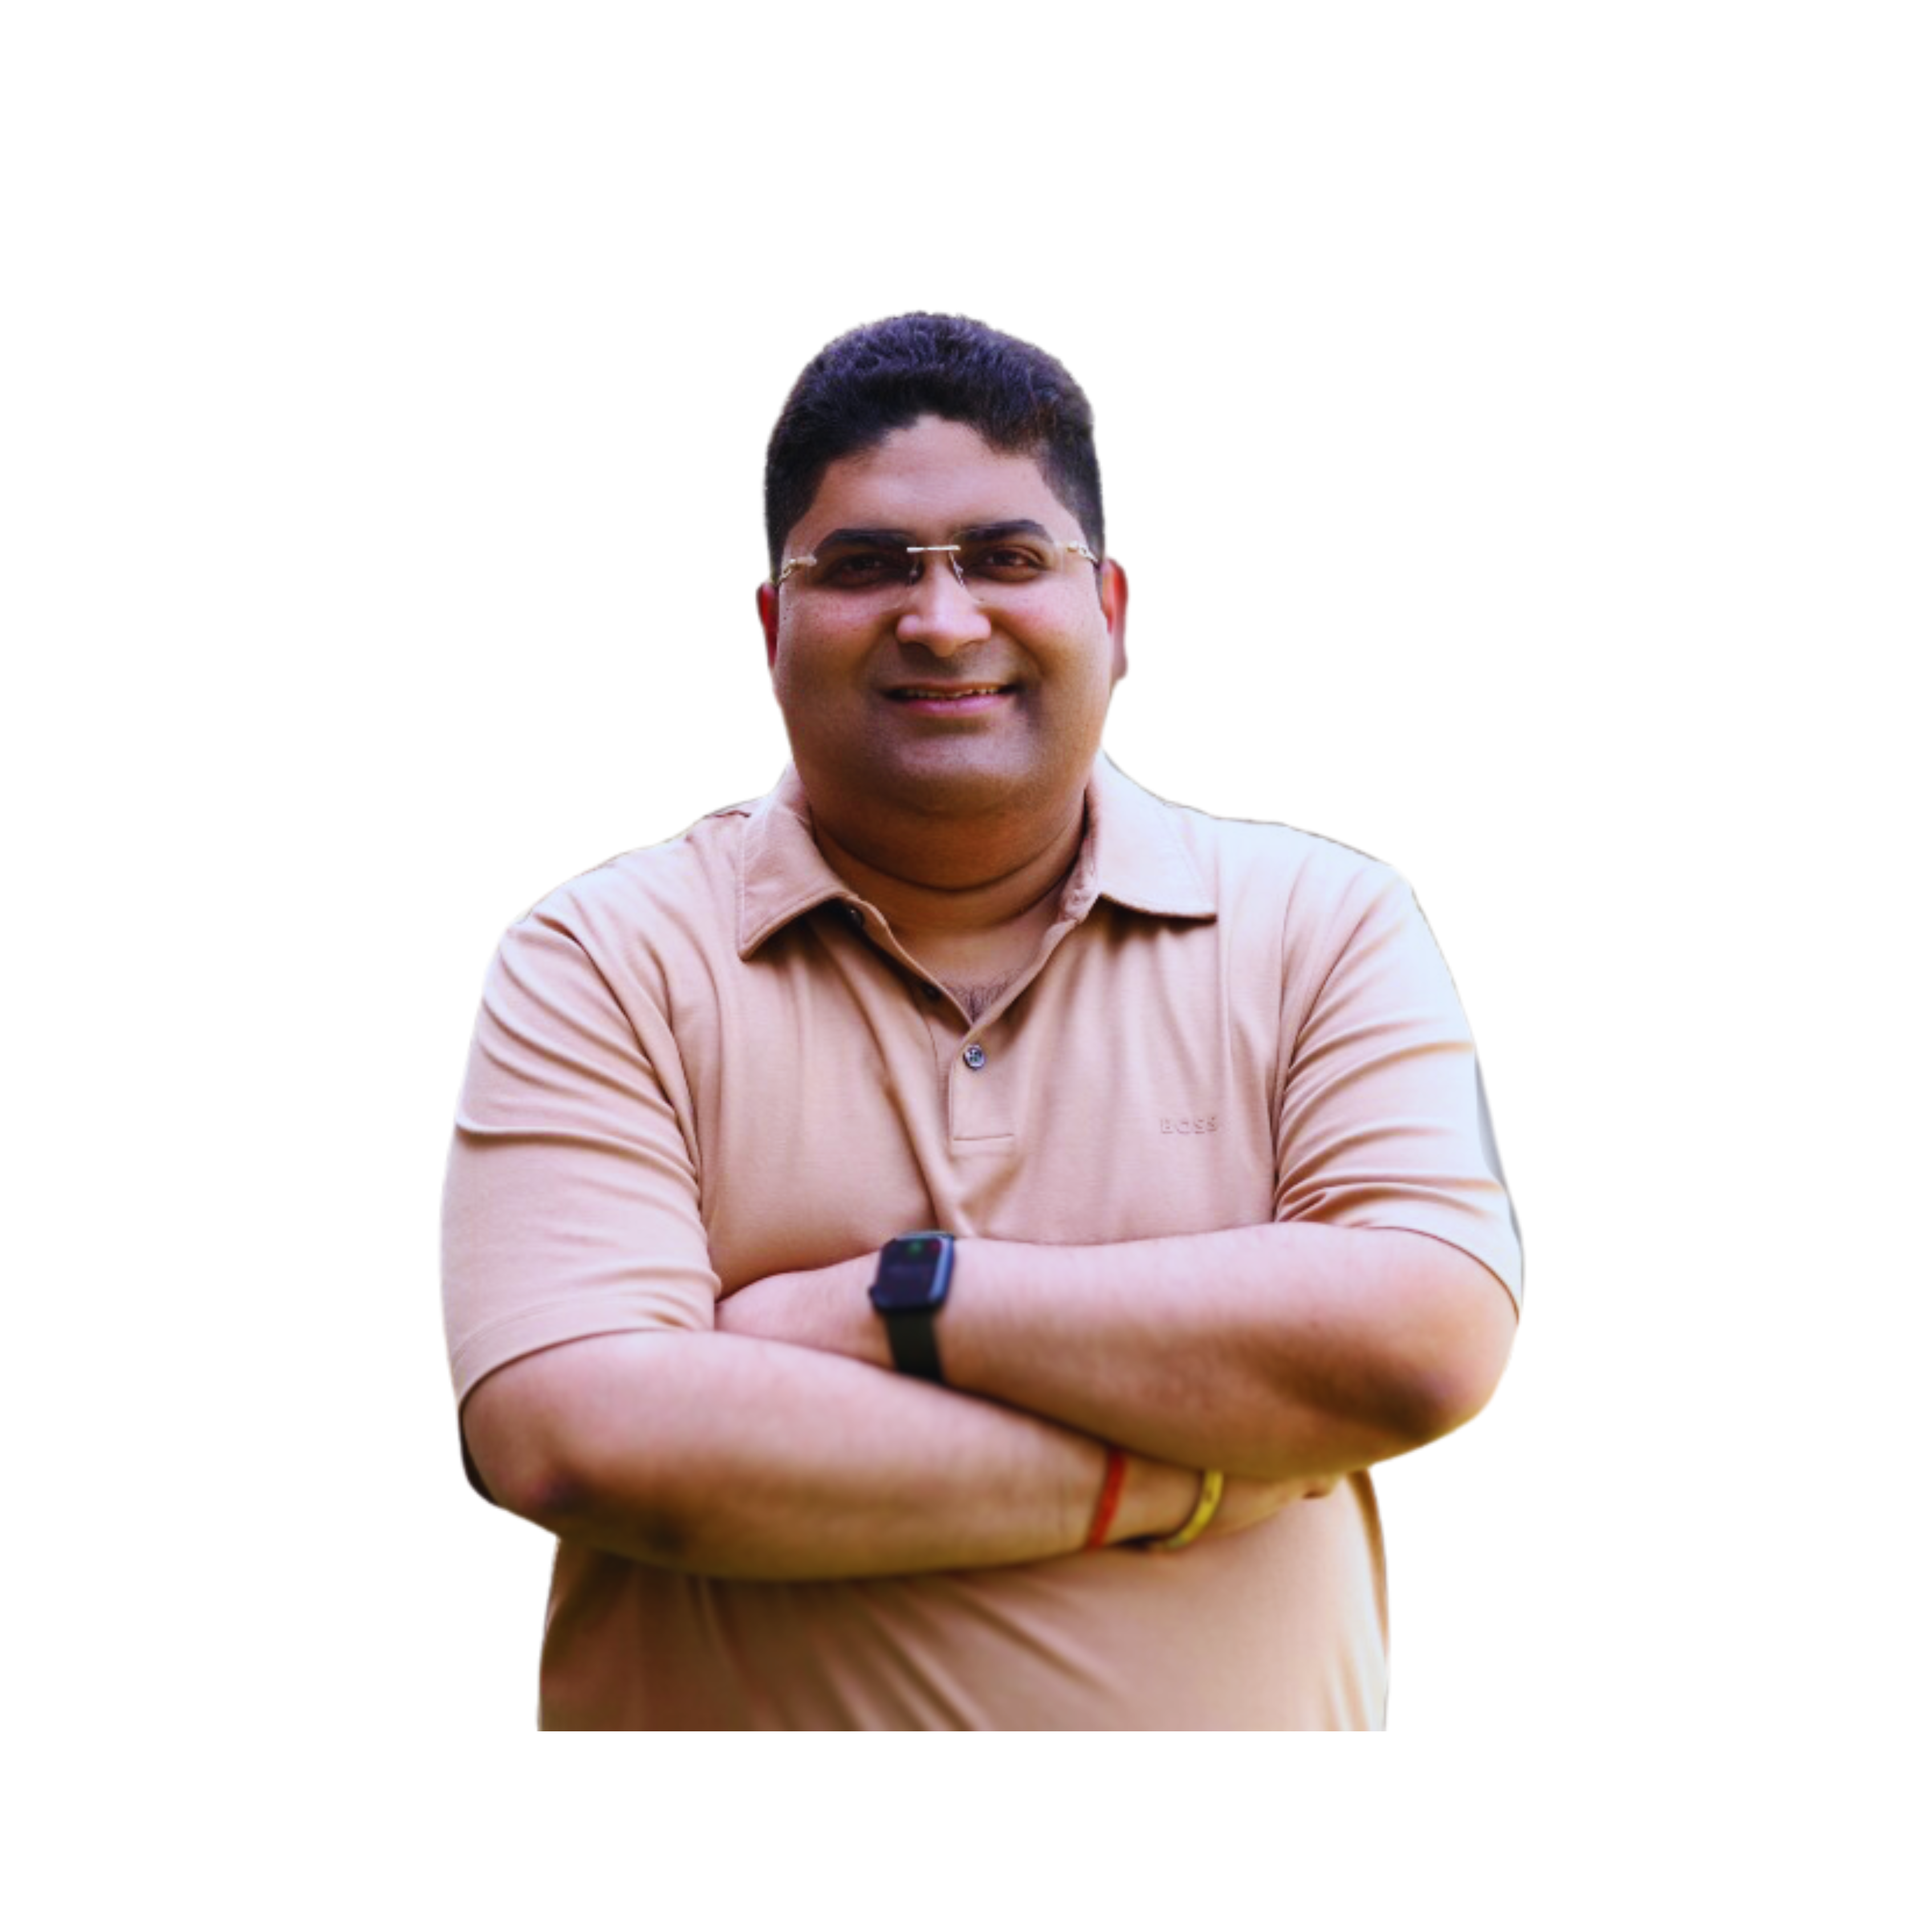
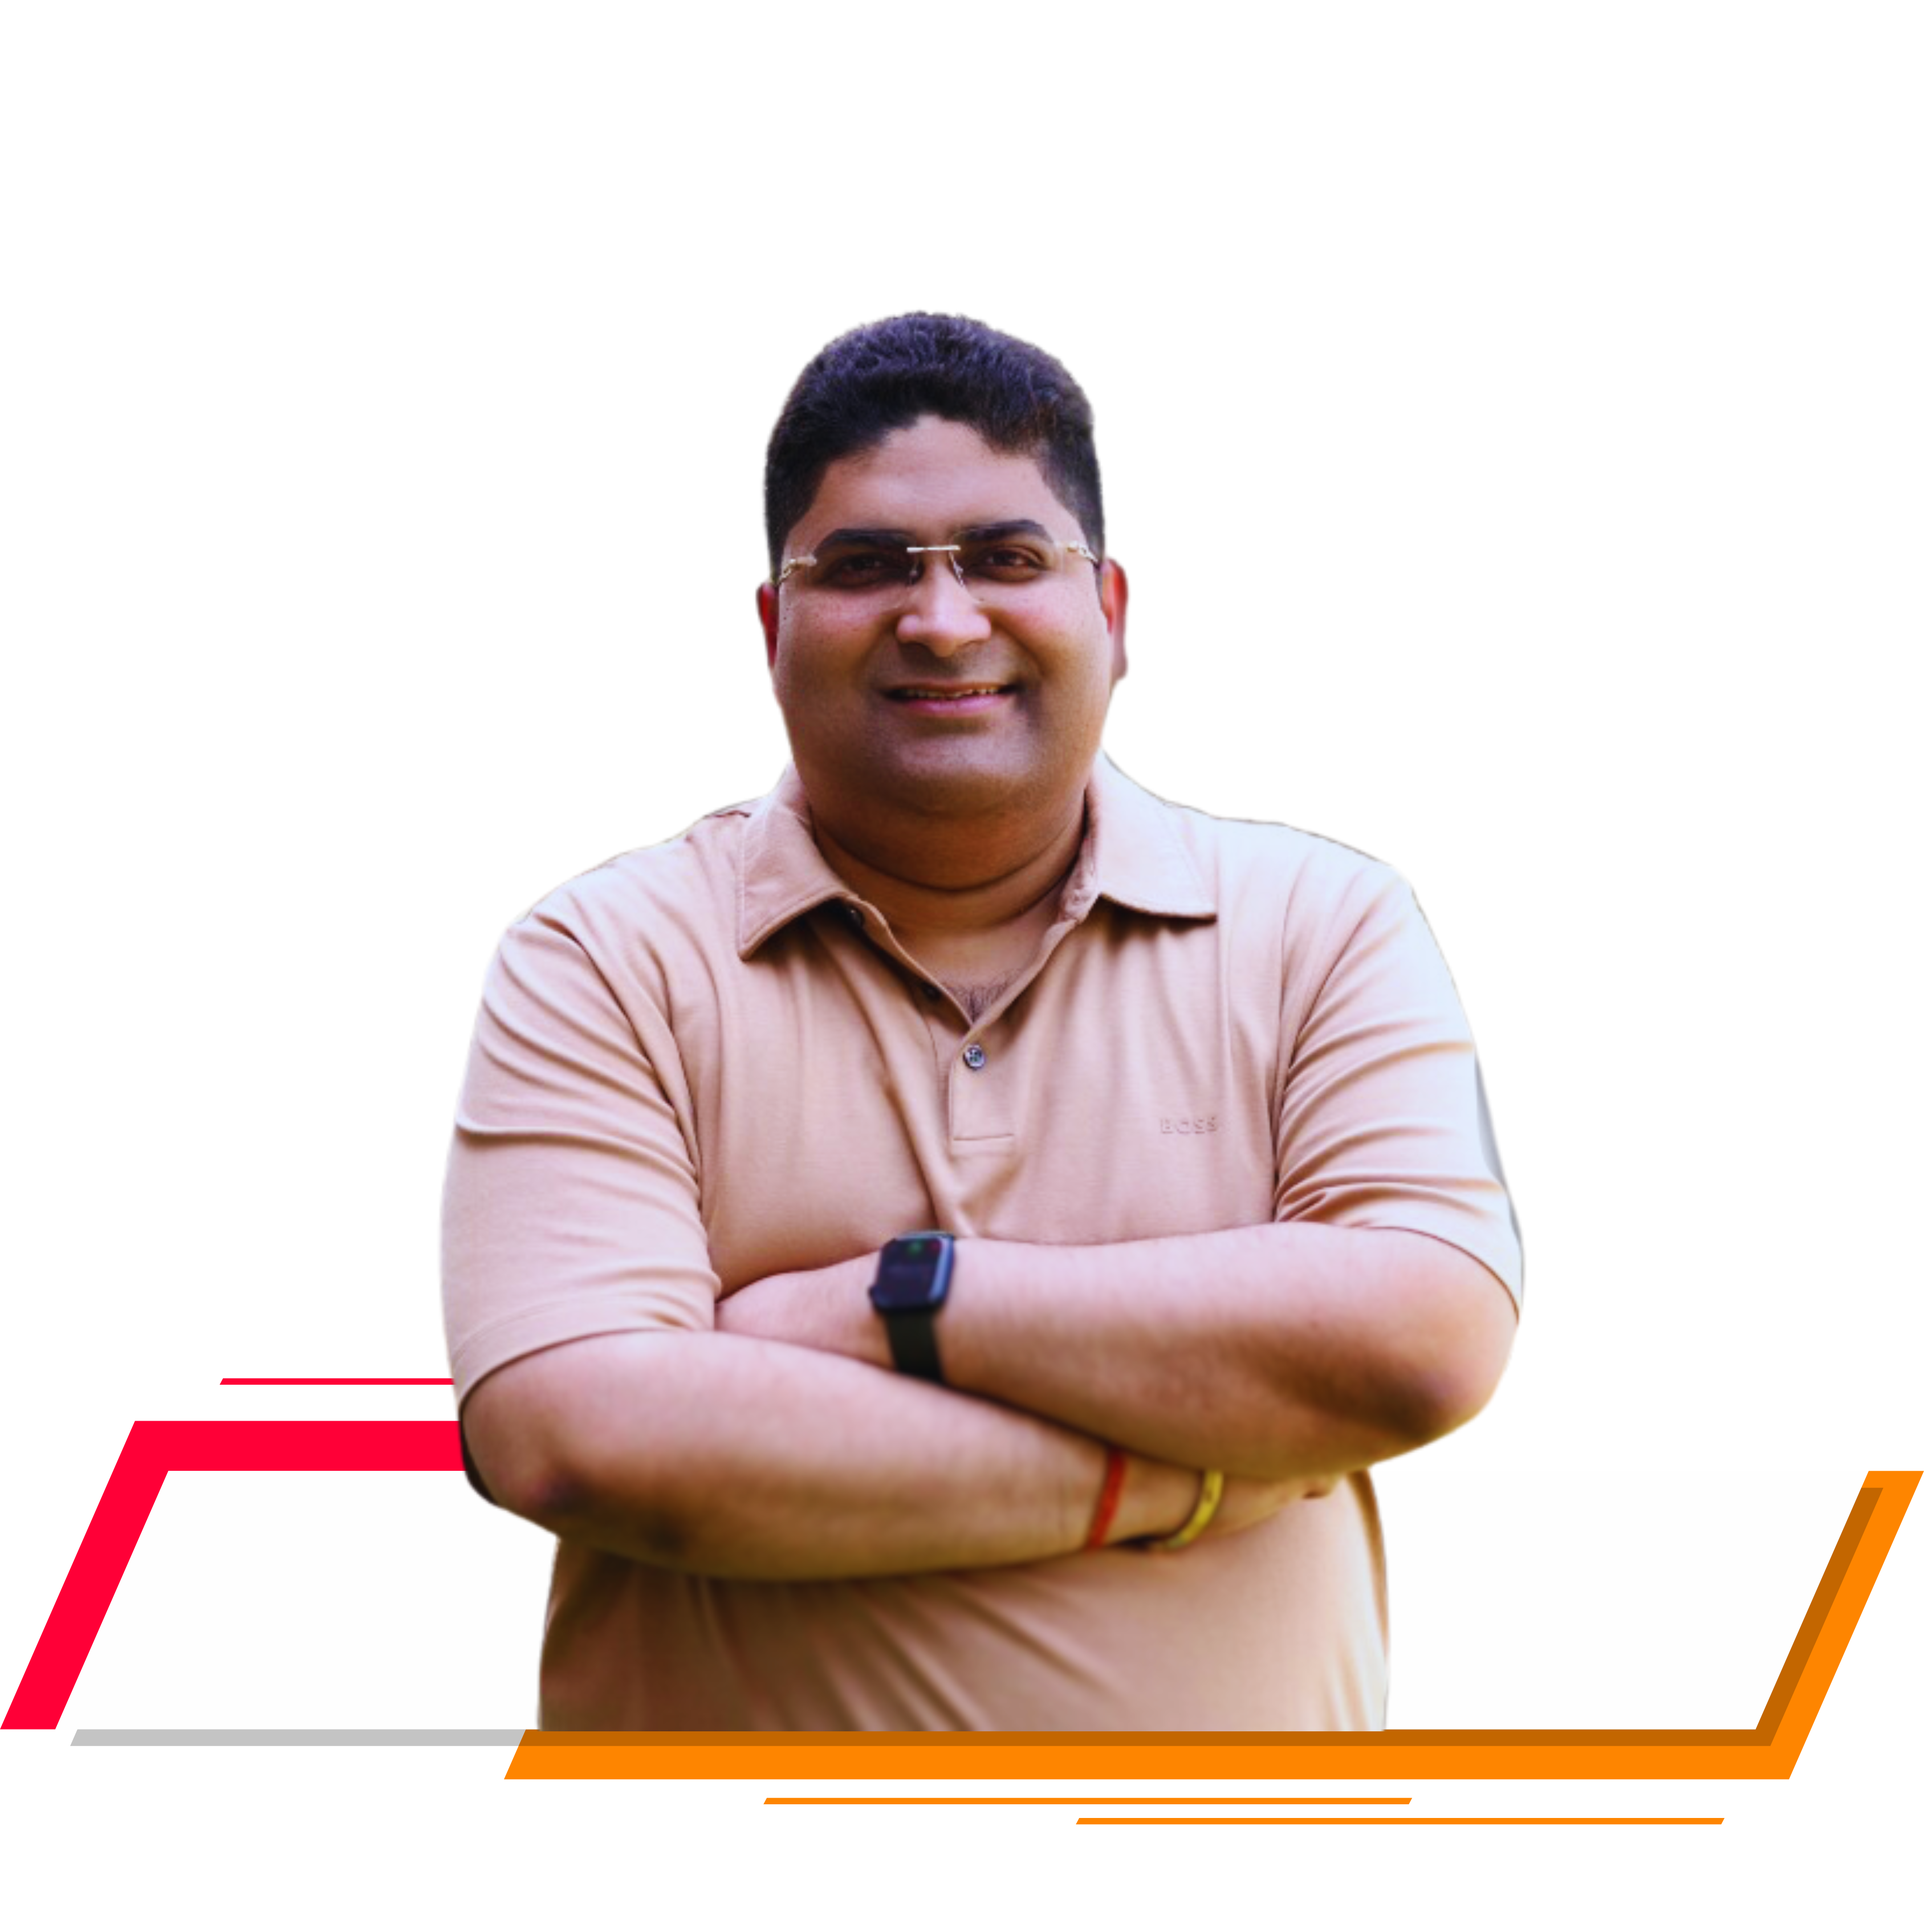
changes in css for  feature box and Abhishek's image

Changed region(s): [[0.0, 0.7156, 1.0, 0.9644]]

diff --git a/style.css b/style.css
@@ -476,7 +476,7 @@ nav ul li a.active::after {
   align-items: center;
   flex-wrap: wrap;
   max-width: 1200px;
-  margin: 20px;
+  /* margin: 20px; */
   gap: 20px;
   width: 100%;
   margin: 0;
@@ -542,13 +542,17 @@ nav ul li a.active::after {
   min-height: 85vh;
   justify-content: center;
   margin-top: 70px;
-  margin-left: 70px;
+  /* margin-left: 70px; */
+  margin-left: auto;
+  margin-right: auto;
 }
 /* Responsive Design */
 @media (max-width: 768px) {
   .feature-box {
-    width: 75%;
-    margin-right: 120px;
+    /* width: 75%; */
+    /* margin-right: 120px; */
+    width: 90%;
+    margin: 0 auto;
   }
   .main-heading {
     font-size: 2.5em;
@@ -1117,7 +1121,7 @@ html {
   justify-content: center;
   align-items: center;
   height: 100vh;
-  background-color: #f4f8fc;
+  background-color: white;
 }
 .containersssssss {
   display: flex;
@@ -1485,6 +1489,7 @@ html {
 
   .main-info-item {
     grid-template-columns: 1fr; /* Stack the info items on small screens */
+    margin-left: 215px;
   }
 
   .info-item {
@@ -1513,6 +1518,12 @@ html {
 }
 
 @media (max-width: 480px) {
+  .main-info-item {
+    /* grid-template-columns: 1fr;  */
+    /* margin-left: 215px; */
+    margin-left: 20px;
+  }
+
   .contact-form h1 {
     font-size: 28px;
     margin-top: 90px;
@@ -1553,9 +1564,12 @@ html {
   background-color: white;
   align-items: center;
   justify-content: center;
-  margin: 50px;
-  gap: -10px;
-  margin-top: -20px;
+  /* margin: 50px; */
+  /* gap: -10px; */
+  /* margin-top: -20px; */
+  margin: 40px auto;
+  gap: 30px;  /* Positive gap for spacing */
+  padding: 20px;
 }
 
 .image-section {
@@ -1648,15 +1662,15 @@ html {
 .name-boxeses {
   /* margin-top: 10px; */
   padding: 0px 21px;
-  border: 2px solid #0077b6;
+  /* border: 2px solid #0077b6; */
   display: inline-block;
   /* font-size: 20px; */
   /* font-weight: bold; */
   color: #0077b6;
   border-radius: 8px;
-  background-color: #f0f8ff;
+  /* background-color: #f0f8ff; */
   position: relative;
-  top: -64px;
+  top: -35px;
   left: 180px;
 }
 .nameesess {
@@ -1687,10 +1701,19 @@ html {
  margin-top: 60px;
 }
 
-@media (max-width: 728px) {
+@media (max-width: 768px) {
   .aquapulse-container {
       flex-direction: column;
+      text-align: center;
+      gap: 40px;
   }
+  .image-section img {
+    width: 80%;
+  }
+  .name-boxeses{
+    left:1px
+  }
+  
 }
 
 @media (max-width: 480px) {
@@ -1709,17 +1732,17 @@ html {
 
   .name-boxeses {
     /* margin-top: 10px; */
-    padding: 0px 21px;
-    border: 2px solid #0077b6;
+    /* padding: 0px 21px; */
+    /* border: 2px solid #0077b6; */
     display: inline-block;
     /* font-size: 20px; */
     /* font-weight: bold; */
-    color: #0077b6;
+    /* color: #0077b6; */
     border-radius: 8px;
-    background-color: #f0f8ff;
+    /* background-color: #f0f8ff; */
     position: relative;
-    top: -40px;
-    left: 50px;
+    top: -20px;
+    left: 1px;
   }
   .nameesess {
     font-size: 18px;

diff --git a/index.html b/index.html
@@ -803,7 +803,7 @@
             <span class="icon"><img src="./Assets/mail.png" /></span>
             <div>
               <strong>Email</strong>
-              <p>contactus@aquapulse.co.in</p>
+              <p>exim360@aquapulse.co.in</p>
             </div>
           </div>
           <div class="info-item">
@@ -1096,7 +1096,7 @@
           // Send data to backend
           try {
             const response = await fetch(
-              "https://aquapulse-backend-1.onrender.com/send-email",
+              "https://aquapulse360-global-backend.onrender.com/send-email",
               {
                 method: "POST",
                 headers: {
